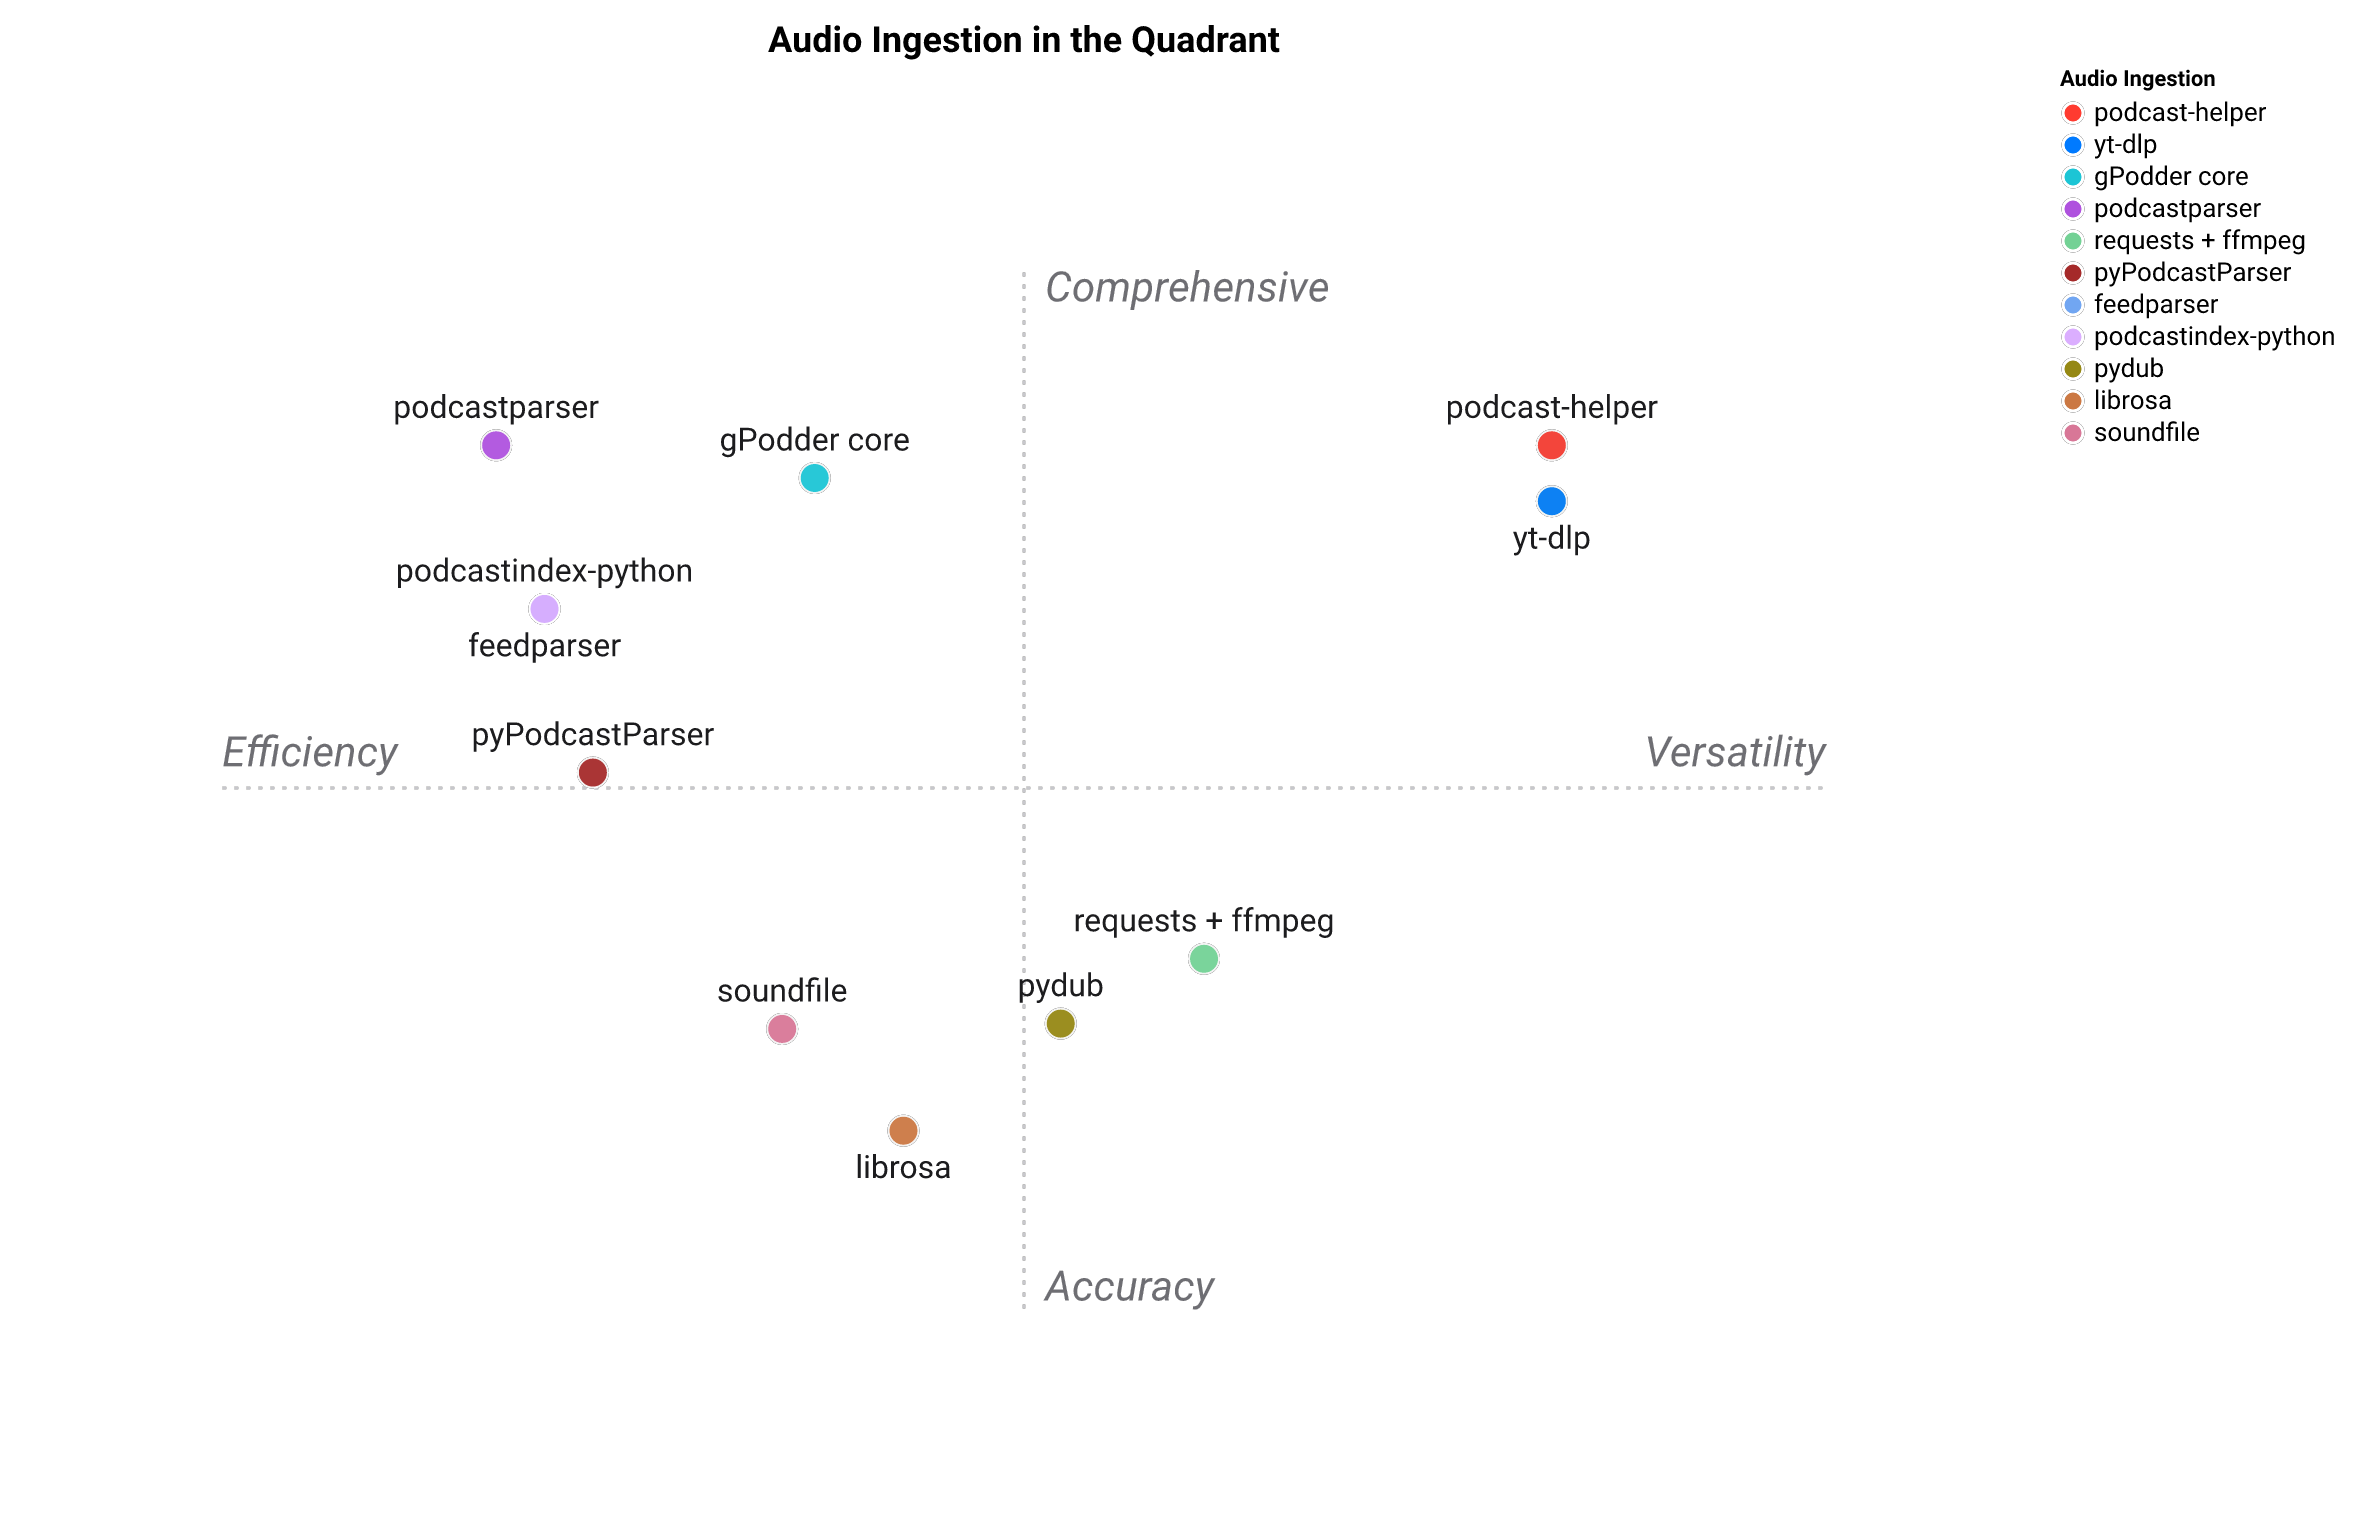
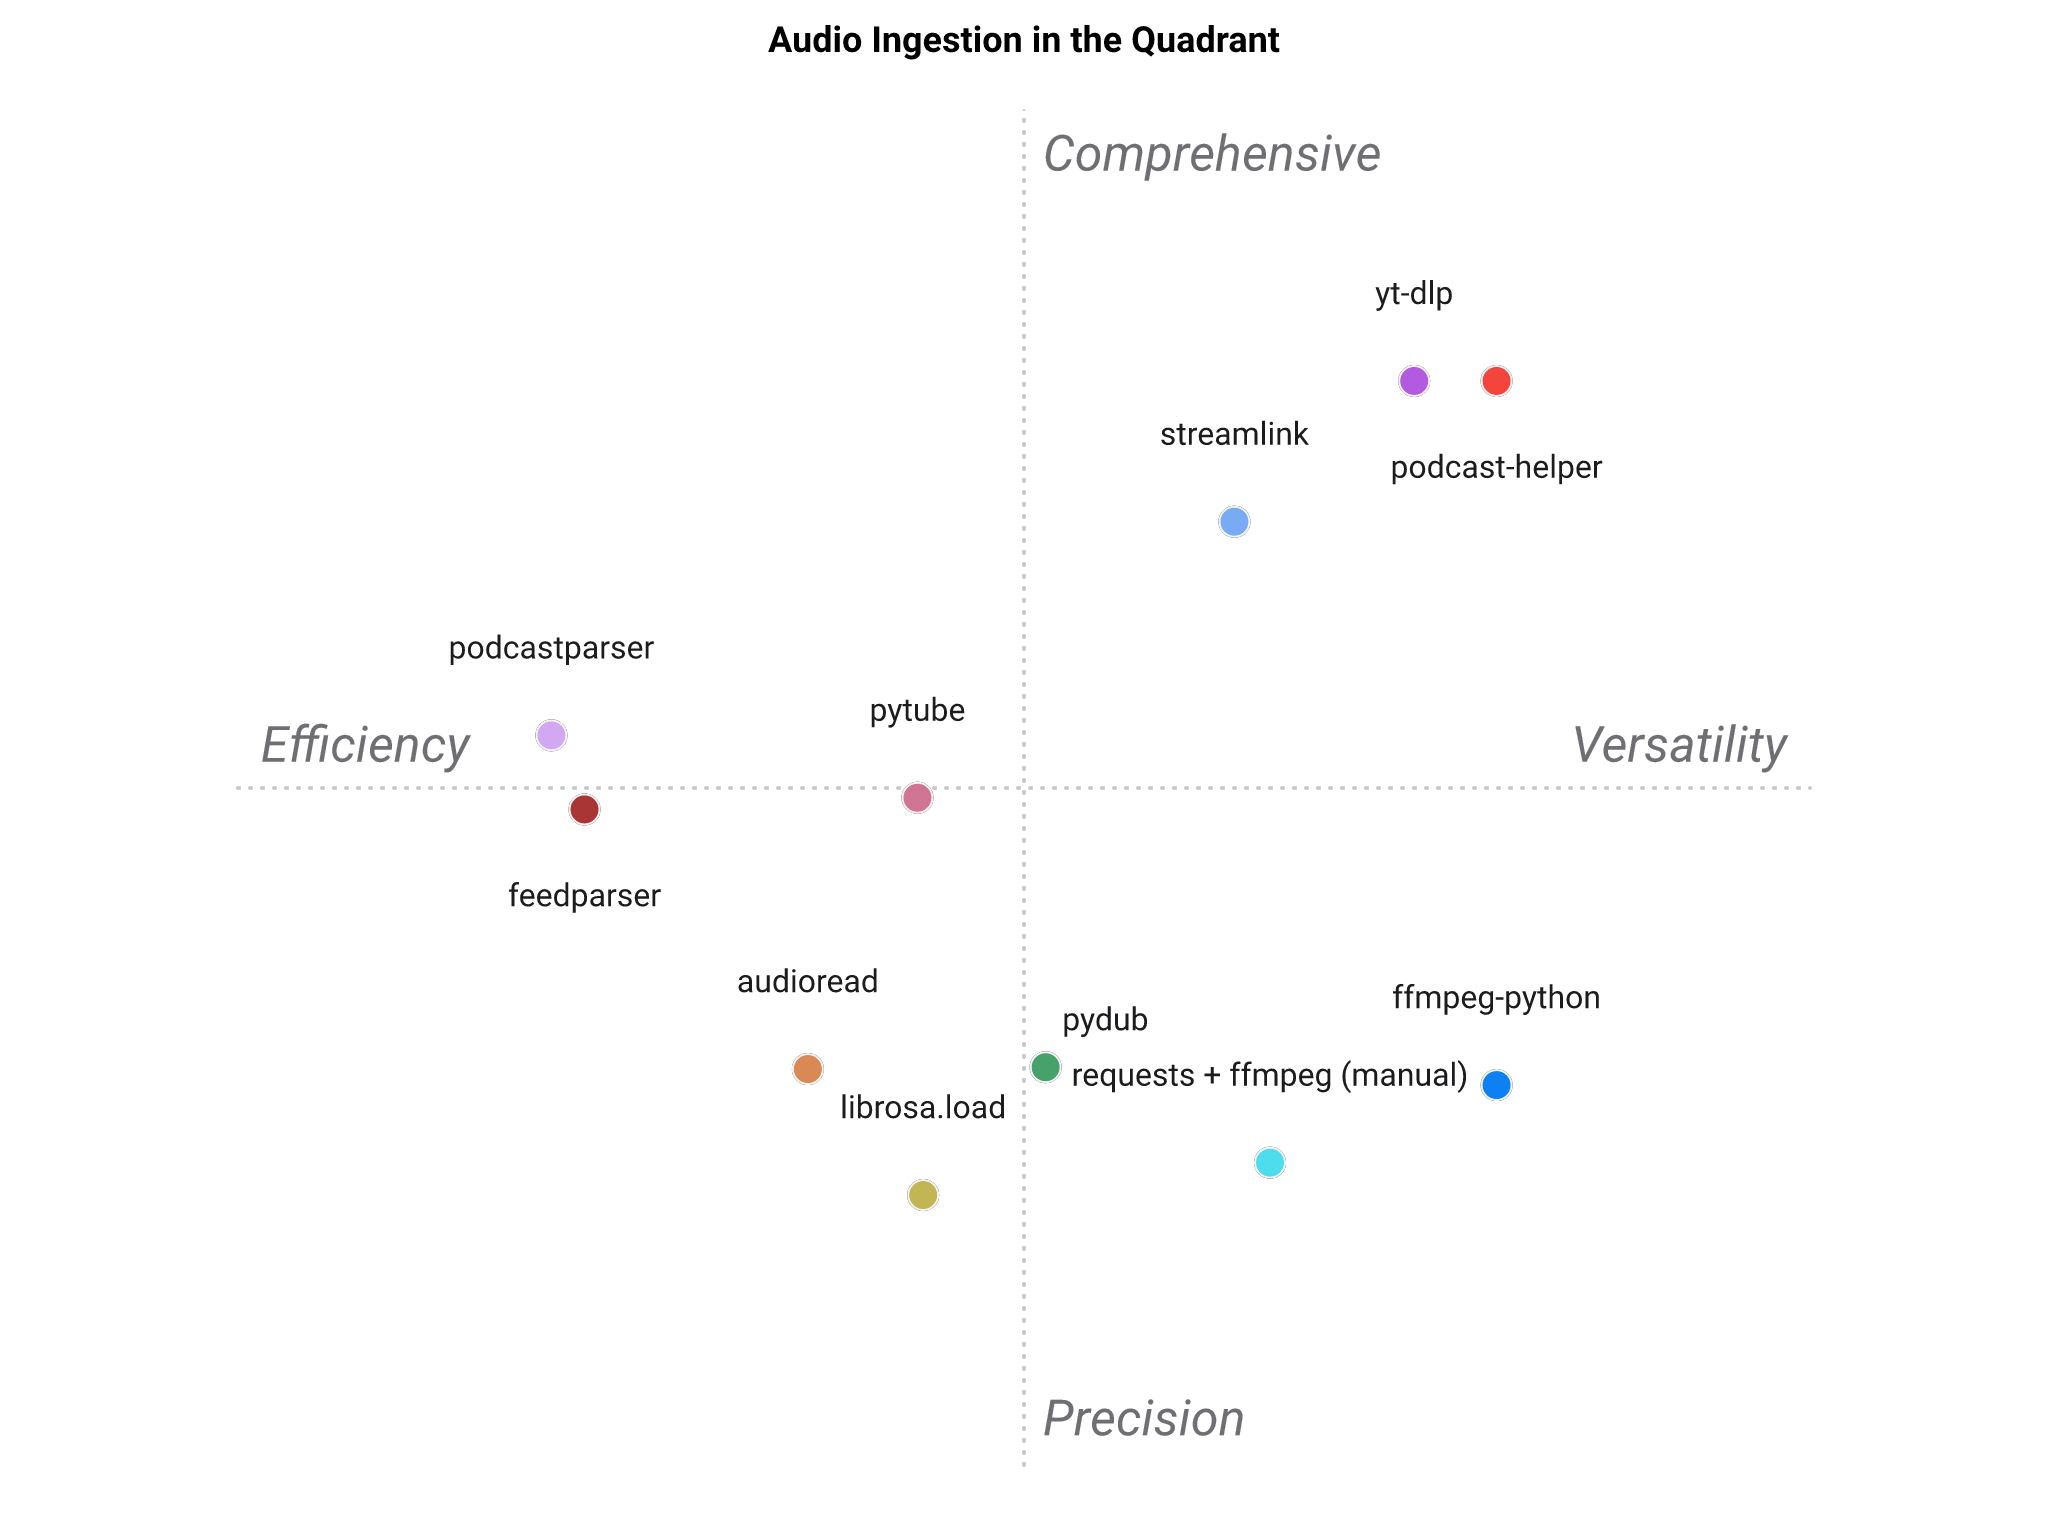
docs(landscape): sharpen competitor set; regenerate positioning map
Re-point the comparison at the real ingestion stack (yt-dlp, streamlink, pytube,
feedparser, podcastparser, ffmpeg-python, requests+ffmpeg, pydub, librosa,
audioread), dropping gPodder / pyPodcastParser / podcastindex / soundfile.
Regenerate the figure via standpoint 0.6.0 and reconcile the when-to-pick prose.

diff --git a/PAYSAGE.md b/PAYSAGE.md
@@ -20,15 +20,15 @@ pénalisée — la note reflète seulement l'adéquation à *ce* créneau.
 | --- | :---: | :---: | :---: | :---: | :---: | :---: | :---: | :---: |
 | **podcast-helper** | ⭐⭐⭐⭐⭐ | ⭐⭐⭐⭐⭐ | ⭐⭐⭐⭐⭐ | ⭐⭐⭐⭐ | ⭐⭐⭐⭐⭐ | ⭐⭐⭐⭐⭐ | ⭐⭐⭐⭐ | ⭐⭐⭐⭐⭐ |
 | yt-dlp | ⭐⭐⭐⭐ | ⭐ | ⭐⭐⭐⭐⭐ | ⭐⭐⭐⭐ | ⭐⭐ | ⭐ | ⭐⭐⭐⭐⭐ | ⭐⭐ |
+| streamlink | ⭐⭐⭐ | ⭐ | ⭐⭐⭐ | ⭐⭐⭐⭐⭐ | ⭐ | ⭐⭐ | ⭐⭐⭐ | ⭐⭐ |
+| pytube | ⭐⭐ | ⭐ | ⭐⭐ | ⭐ | ⭐ | ⭐ | ⭐⭐⭐ | ⭐⭐ |
 | feedparser | ⭐ | ⭐⭐⭐⭐ | ⭐ | ⭐ | ⭐ | ⭐ | ⭐ | ⭐ |
 | podcastparser | ⭐ | ⭐⭐⭐⭐⭐ | ⭐ | ⭐ | ⭐ | ⭐ | ⭐ | ⭐ |
-| pyPodcastParser | ⭐ | ⭐⭐⭐ | ⭐ | ⭐ | ⭐ | ⭐ | ⭐ | ⭐ |
-| gPodder core | ⭐⭐ | ⭐⭐⭐⭐ | ⭐ | ⭐ | ⭐ | ⭐ | ⭐⭐⭐⭐ | ⭐⭐ |
-| podcastindex-python | ⭐ | ⭐⭐⭐⭐ | ⭐ | ⭐ | ⭐ | ⭐ | ⭐ | ⭐ |
-| pydub | ⭐⭐ | ⭐ | ⭐ | ⭐ | ⭐⭐⭐ | ⭐ | ⭐⭐⭐⭐ | ⭐⭐ |
-| librosa | ⭐⭐ | ⭐ | ⭐ | ⭐ | ⭐⭐⭐⭐ | ⭐ | ⭐ | ⭐ |
-| soundfile | ⭐ | ⭐ | ⭐ | ⭐ | ⭐ | ⭐⭐ | ⭐⭐ | ⭐ |
-| requests + ffmpeg | ⭐⭐ | ⭐ | ⭐ | ⭐⭐ | ⭐⭐⭐⭐⭐ | ⭐⭐⭐ | ⭐⭐⭐ | ⭐ |
+| ffmpeg-python | ⭐⭐⭐ | ⭐ | ⭐ | ⭐⭐⭐ | ⭐⭐⭐⭐⭐ | ⭐⭐⭐⭐ | ⭐⭐⭐⭐ | ⭐ |
+| requests + ffmpeg (manual) | ⭐⭐ | ⭐ | ⭐ | ⭐⭐ | ⭐⭐⭐⭐⭐ | ⭐⭐⭐ | ⭐⭐⭐ | ⭐ |
+| pydub | ⭐⭐ | ⭐ | ⭐ | ⭐ | ⭐⭐⭐ | ⭐ | ⭐⭐⭐⭐ | ⭐ |
+| librosa.load | ⭐ | ⭐ | ⭐ | ⭐ | ⭐⭐⭐⭐ | ⭐⭐ | ⭐ | ⭐ |
+| audioread | ⭐ | ⭐ | ⭐ | ⭐ | ⭐ | ⭐⭐⭐ | ⭐ | ⭐ |
 <!-- TABLE:END -->
 
 ## Carte de positionnement
@@ -38,7 +38,7 @@ Représentation 2D du tableau ci-dessus.
 
 ![Carte de positionnement](https://raw.githubusercontent.com/warith-harchaoui/podcast-helper/main/assets/paysage.png)
 
-La carte est un résumé en 2D des 8 critères : à lire comme une forme, pas comme un classement. « podcast-helper » se situe dans le coin en haut à droite. Les axes se lisent **Horizontal — Précision ↔ Flexibilité** et **Vertical — Compacte ↔ Complétude**.
+La carte est un résumé en 2D des 8 critères : à lire comme une forme, pas comme un classement. « podcast-helper » se situe dans le coin en haut à droite. Les axes se lisent **Horizontal — Précision ↔ Flexibilité** et **Vertical — Qualité audio ↔ Complétude**.
 <!-- FIGURE:END -->
 
 ## Positionnement
@@ -78,9 +78,9 @@ streaming, archive) à la charge de l'appelant.
   compressée optionnelle.
 - **`yt-dlp`** — vous avez seulement besoin du fichier sur disque et vous ne
   vous souciez ni du RSS ni du streaming asynchrone.
+- **`streamlink`** — vous avez précisément besoin de récupérer un flux HLS en
+  direct et rien d'autre.
 - **`feedparser` / `podcastparser`** — vous avez seulement besoin de parcourir
   les métadonnées d'un flux ; l'ingestion audio est hors périmètre.
-- **`gPodder`** — vous voulez un client de podcast de bureau avec un magasin
-  d'abonnements.
-- **`pydub` / `librosa` / `soundfile`** — vous avez déjà le fichier et vous
-  voulez manipuler ses échantillons avec une bibliothèque audio mature.
+- **`pydub` / `librosa` / `audioread`** — vous avez déjà le fichier et vous
+  voulez manipuler ou décoder ses échantillons avec une bibliothèque audio mature.

diff --git a/LANDSCAPE.md b/LANDSCAPE.md
@@ -19,15 +19,15 @@ penalised — the score just reflects fit to *this* niche.
 | --- | :---: | :---: | :---: | :---: | :---: | :---: | :---: | :---: |
 | **podcast-helper** | ⭐⭐⭐⭐⭐ | ⭐⭐⭐⭐⭐ | ⭐⭐⭐⭐⭐ | ⭐⭐⭐⭐ | ⭐⭐⭐⭐⭐ | ⭐⭐⭐⭐⭐ | ⭐⭐⭐⭐ | ⭐⭐⭐⭐⭐ |
 | yt-dlp | ⭐⭐⭐⭐ | ⭐ | ⭐⭐⭐⭐⭐ | ⭐⭐⭐⭐ | ⭐⭐ | ⭐ | ⭐⭐⭐⭐⭐ | ⭐⭐ |
+| streamlink | ⭐⭐⭐ | ⭐ | ⭐⭐⭐ | ⭐⭐⭐⭐⭐ | ⭐ | ⭐⭐ | ⭐⭐⭐ | ⭐⭐ |
+| pytube | ⭐⭐ | ⭐ | ⭐⭐ | ⭐ | ⭐ | ⭐ | ⭐⭐⭐ | ⭐⭐ |
 | feedparser | ⭐ | ⭐⭐⭐⭐ | ⭐ | ⭐ | ⭐ | ⭐ | ⭐ | ⭐ |
 | podcastparser | ⭐ | ⭐⭐⭐⭐⭐ | ⭐ | ⭐ | ⭐ | ⭐ | ⭐ | ⭐ |
-| pyPodcastParser | ⭐ | ⭐⭐⭐ | ⭐ | ⭐ | ⭐ | ⭐ | ⭐ | ⭐ |
-| gPodder core | ⭐⭐ | ⭐⭐⭐⭐ | ⭐ | ⭐ | ⭐ | ⭐ | ⭐⭐⭐⭐ | ⭐⭐ |
-| podcastindex-python | ⭐ | ⭐⭐⭐⭐ | ⭐ | ⭐ | ⭐ | ⭐ | ⭐ | ⭐ |
-| pydub | ⭐⭐ | ⭐ | ⭐ | ⭐ | ⭐⭐⭐ | ⭐ | ⭐⭐⭐⭐ | ⭐⭐ |
-| librosa | ⭐⭐ | ⭐ | ⭐ | ⭐ | ⭐⭐⭐⭐ | ⭐ | ⭐ | ⭐ |
-| soundfile | ⭐ | ⭐ | ⭐ | ⭐ | ⭐ | ⭐⭐ | ⭐⭐ | ⭐ |
-| requests + ffmpeg | ⭐⭐ | ⭐ | ⭐ | ⭐⭐ | ⭐⭐⭐⭐⭐ | ⭐⭐⭐ | ⭐⭐⭐ | ⭐ |
+| ffmpeg-python | ⭐⭐⭐ | ⭐ | ⭐ | ⭐⭐⭐ | ⭐⭐⭐⭐⭐ | ⭐⭐⭐⭐ | ⭐⭐⭐⭐ | ⭐ |
+| requests + ffmpeg (manual) | ⭐⭐ | ⭐ | ⭐ | ⭐⭐ | ⭐⭐⭐⭐⭐ | ⭐⭐⭐ | ⭐⭐⭐ | ⭐ |
+| pydub | ⭐⭐ | ⭐ | ⭐ | ⭐ | ⭐⭐⭐ | ⭐ | ⭐⭐⭐⭐ | ⭐ |
+| librosa.load | ⭐ | ⭐ | ⭐ | ⭐ | ⭐⭐⭐⭐ | ⭐⭐ | ⭐ | ⭐ |
+| audioread | ⭐ | ⭐ | ⭐ | ⭐ | ⭐ | ⭐⭐⭐ | ⭐ | ⭐ |
 <!-- TABLE:END -->
 
 ## Positioning map
@@ -37,7 +37,7 @@ penalised — the score just reflects fit to *this* niche.
 
 ![Positioning map](https://raw.githubusercontent.com/warith-harchaoui/podcast-helper/main/assets/landscape.png)
 
-The map is a 2-D summary of the eight criteria, so read it as a shape, not a scoreboard. `podcast-helper` is at the top-right corner. The axes read **Horizontal — Efficiency ↔ Versatility** and **Vertical — Accuracy ↔ Comprehensive**.
+The map is a 2-D summary of the eight criteria, so read it as a shape, not a scoreboard. `podcast-helper` is at the top-right corner. The axes read **Horizontal — Efficiency ↔ Versatility** and **Vertical — Precision ↔ Comprehensive**.
 <!-- FIGURE:END -->
 
 ## Positioning
@@ -74,9 +74,10 @@ concern (routing, feeds, streaming iterator, archive) to the caller.
   Shannon-correct resampling with an optional compressed archive.
 - **`yt-dlp`** — you only need the file on disk and do not care about
   RSS or async streaming.
+- **`streamlink`** — you specifically need a live HLS stream pulled
+  down and nothing else.
 - **`feedparser` / `podcastparser`** — you only need to walk feed
   metadata; audio ingest is out of scope.
-- **`gPodder`** — you want a desktop podcast client with a
-  subscription store.
-- **`pydub` / `librosa` / `soundfile`** — you already have the file
-  and want to manipulate its samples with a mature audio library.
+- **`pydub` / `librosa` / `audioread`** — you already have the file
+  and want to manipulate or decode its samples with a mature audio
+  library.
